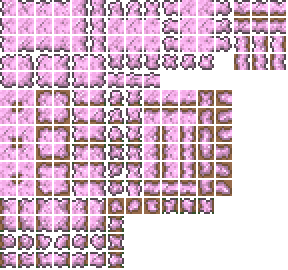
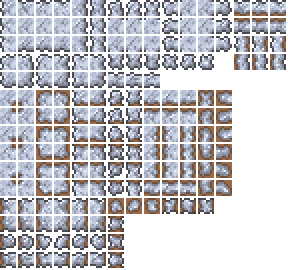
more crystal mines stuff

diff --git a/Tiles/CrystalStone.cs b/Tiles/CrystalStone.cs
@@ -7,6 +7,7 @@ using System.Threading.Tasks;
 using Terraria;
 using Terraria.ModLoader;
 using Terraria.ID;
+using Microsoft.Xna.Framework.Graphics;
 
 namespace ExxoAvalonOrigins.Tiles
 {
@@ -33,7 +34,42 @@ namespace ExxoAvalonOrigins.Tiles
             soundStyle = 1;
             dustType = DustID.PinkCrystalShard;
         }
-	}
+        public override void DrawEffects(int i, int j, SpriteBatch spriteBatch, ref Color drawColor, ref int nextSpecialDrawIndex)
+        {
+            if (i % 14 == 0 || i % 14 == 13)
+            {
+                drawColor = new Color(123, 186, 228);
+            }
+            else if (i % 14 == 1 || i % 14 == 12)
+            {
+                drawColor = new Color(144, 171, 221);
+            }
+            else if (i % 14 == 2 || i % 14 == 11)
+            {
+                drawColor = new Color(163, 160, 216);
+            }
+            else if (i % 14 == 3 || i % 14 == 10)
+            {
+                drawColor = new Color(176, 153, 214);
+            }
+            else if (i % 14 == 4 || i % 14 == 9)
+            {
+                drawColor = new Color(186, 146, 212);
+            }
+            else if (i % 14 == 5 || i % 14 == 8)
+            {
+                drawColor = new Color(200, 138, 209);
+            }
+            else if (i % 14 == 6 || i % 14 == 7)
+            {
+                drawColor = new Color(216, 129, 205);
+            }
+            else if (i % 14 == 7)
+            {
+                drawColor = new Color (227, 123, 203);
+            }
+        }
+    }
 }
 
 

diff --git a/NPCs/CrystalBones.cs b/NPCs/CrystalBones.cs
@@ -82,9 +82,7 @@ namespace ExxoAvalonOrigins.NPCs
             {
                 float speedX = npc.velocity.X + Main.rand.Next(-51, 51) * 0.2f;
                 float speedY = npc.velocity.Y + Main.rand.Next(-51, 51) * 0.2f;
-                int proj = Projectile.NewProjectile(npc.position, new Vector2(speedX, speedY), ModContent.ProjectileType<Projectiles.CrystalShard>(), (int)(npc.damage * 0.8f), 0.3f, Main.myPlayer);
-                Main.projectile[proj].hostile = true;
-                Main.projectile[proj].friendly = false;
+                int proj = Projectile.NewProjectile(npc.position, new Vector2(speedX, speedY), ModContent.ProjectileType<Projectiles.CrystalShard>(), (int)(npc.damage * 0.8f), 0.3f);
                 Main.projectile[proj].timeLeft = 300;
             }
             if (npc.life <= 0)

diff --git a/Logic/RecipeCreator.cs b/Logic/RecipeCreator.cs
@@ -2668,14 +2668,6 @@ namespace ExxoAvalonOrigins.Logic
             recipe.AddRecipe();
 
             recipe = new ModRecipe(mod);
-            recipe.AddIngredient(ItemID.LifeCrystal, 2);
-            recipe.AddIngredient(ItemID.LifeFruit, 2);
-            recipe.AddIngredient(ModContent.ItemType<VictoryPiece>());
-            recipe.AddTile(ModContent.TileType<Tiles.CaesiumForge>());
-            recipe.SetResult(ModContent.ItemType<CrystalFruit>(), 2);
-            recipe.AddRecipe();
-
-            recipe = new ModRecipe(mod);
             recipe.AddIngredient(ItemID.SoulofMight);
             recipe.AddIngredient(ItemID.BlueBrick, 5);
             recipe.AddTile(ModContent.TileType<Tiles.CaesiumForge>());

diff --git a/Items/Armor/MiloticCrown.cs b/Items/Armor/MiloticCrown.cs
@@ -33,7 +33,7 @@ namespace ExxoAvalonOrigins.Items.Armor
 		public override void UpdateArmorSet(Player player)
 		{
 			player.setBonus = "Minions have a chance to freeze your enemies" +
-				"\nFrozen enemies or enemies which cannot be frozen take an aadditional 10% damage";
+				"\nFrozen enemies or enemies which cannot be frozen take an additional 10% damage";
 			player.GetModPlayer<ExxoAvalonOriginsModPlayer>().minionFreeze = true;
 		}
 

diff --git a/Projectiles/CrystalShard.cs b/Projectiles/CrystalShard.cs
@@ -39,8 +39,6 @@ namespace ExxoAvalonOrigins.Projectiles
         }
         public override void AI()
         {
-            projectile.hostile = true;
-            projectile.friendly = false;
             projectile.ai[0]++;
             if (projectile.ai[0] > 5f)
             {
